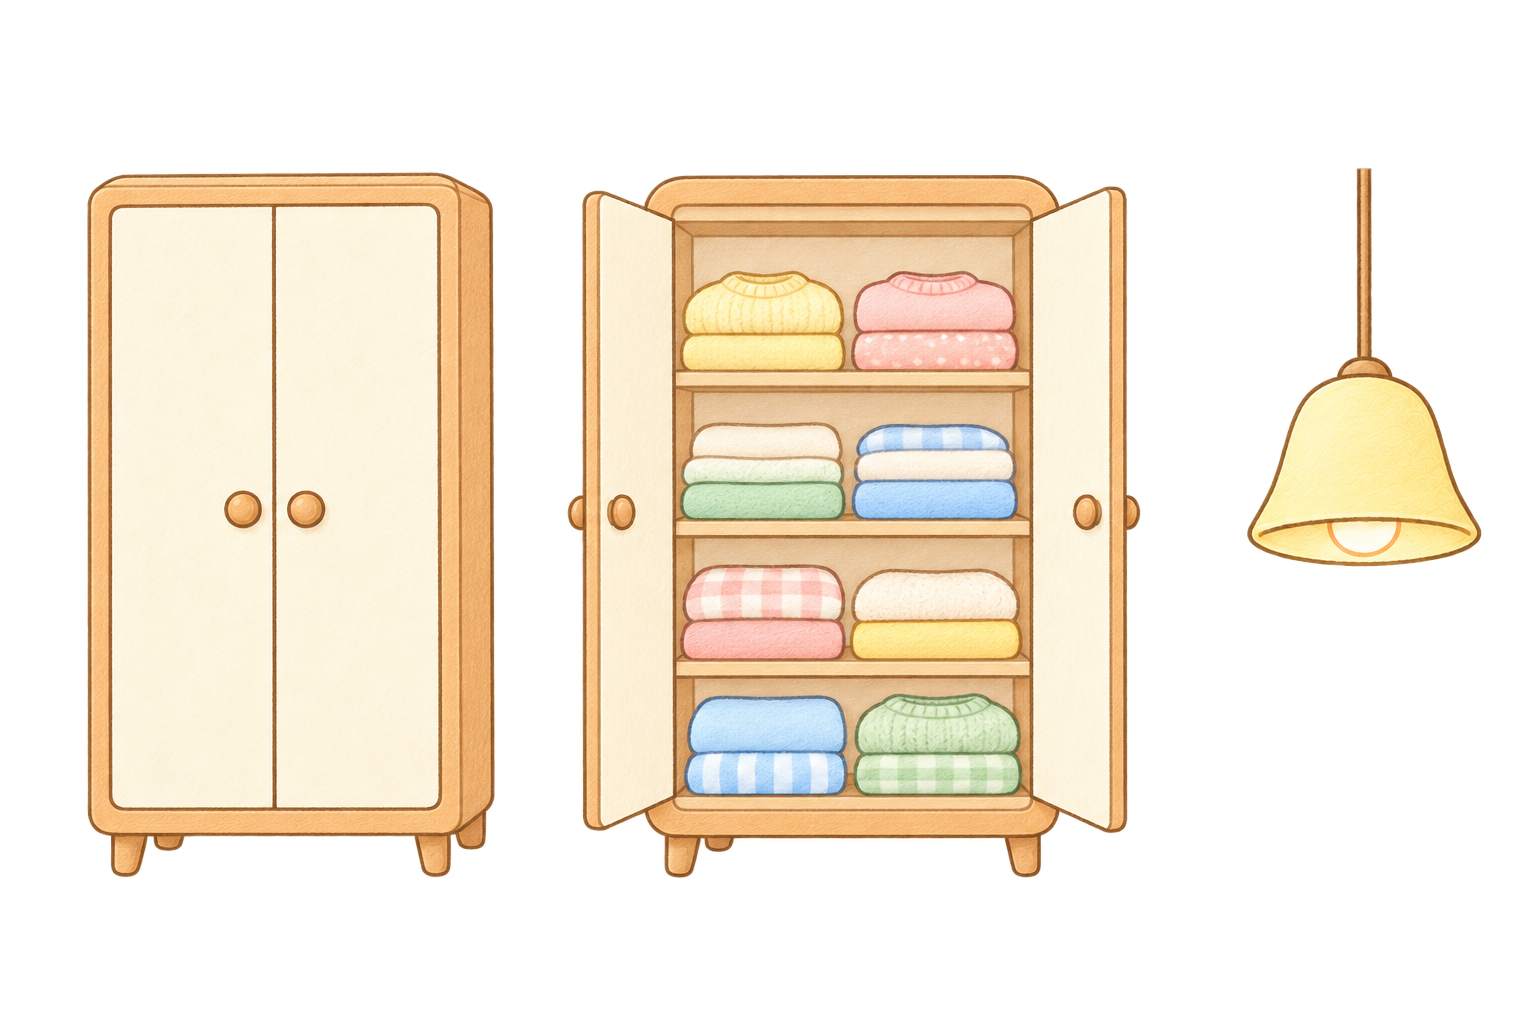
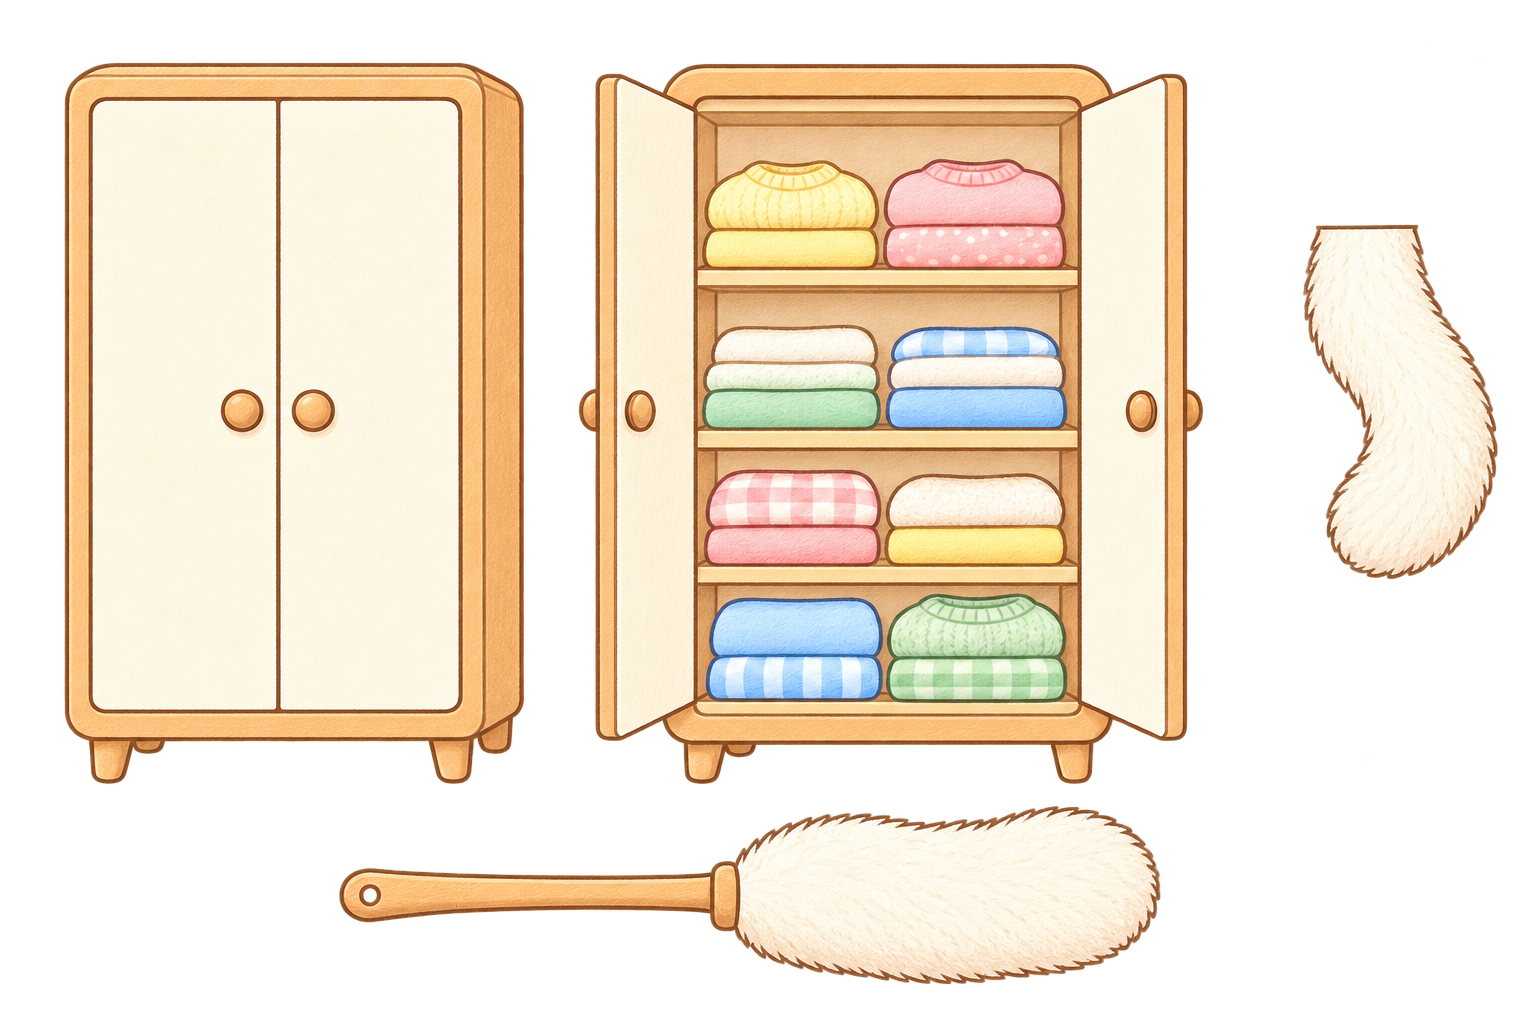
Level 2: thay thảm lông dưới gầm giường bằng chổi lông như đuôi mèo, vẽ lại cặp tủ
- Gầm giường thò ra túm lông trắng ve vẩy như đuôi mèo; chạm thì kéo ra cây chổi lông
- Vẽ lại tủ đóng/mở chung một tờ: cùng khung, nóc, chân, góc nghiêng; tủ mở lộ ngăn quần áo gấp
- Bỏ l2_fur_rug, l2_fur_rug_peek (cất ở art/out/_refs/l2_fur_old)

diff --git a/game/src/level2.js b/game/src/level2.js
@@ -27,7 +27,6 @@ const SIZE_K = {
   l2_shoebox_ears: 1.14, l2_shoebox_open: 1.14,
   l2_plush_cat: 0.75, l2_plush_cat_fallen: 0.75,
   l2_bed_blanket_flat: 1.11, l2_bed_blanket_flipped: 1.11,
-  l2_fur_rug_peek: 1.6, l2_fur_rug: 1.2,
   l2_chair: 0.95,
   l2_slippers_cat_idle: 1.19, l2_slippers_cat_after: 1.19,
   l2_sock_basket_full: 1.39, l2_sock_basket_2: 1.39, l2_sock_basket_3: 1.39, l2_sock_basket_reveal: 1.39,
@@ -75,13 +74,16 @@ const FB = {
   l2_shoebox: [180, 90, 'đáy', (g, w, h) => { g.fillStyle(0xe7a98f).lineStyle(4, BROWN).fillRect(4, 14, w - 8, h - 18).strokeRect(4, 14, w - 8, h - 18); g.fillStyle(0xf1c0a8).fillRect(0, 4, w, 18).strokeRect(0, 4, w, 18); }],
   l2_bed_blanket_flat: [520, 300, 'đáy', (g, w, h) => bed(g, w, h, false)],
   l2_bed_blanket_flipped: [520, 300, 'đáy', (g, w, h) => bed(g, w, h, true)],
-  l2_fur_rug_peek: [120, 44, 'đáy', (g, w, h) => {
-    g.fillStyle(WHITE).lineStyle(3, BROWN).fillRect(4, 0, w - 8, h * 0.55);
-    for (let i = 0; i < 4; i++) { g.fillCircle(18 + i * 28, h * 0.62, 14); g.strokeCircle(18 + i * 28, h * 0.62, 14); }
+  // G2-9: túm lông trắng cong như đuôi mèo thò ra dưới gầm giường (gốc ở mép trên, khuất sau giường).
+  l2_duster_peek: [150, 110, 'đỉnh', (g, w, h) => {
+    g.fillStyle(WHITE).lineStyle(4, BROWN);
+    g.fillEllipse(w * 0.4, h * 0.3, w * 0.36, h * 0.6).strokeEllipse(w * 0.4, h * 0.3, w * 0.36, h * 0.6);
+    g.fillEllipse(w * 0.62, h * 0.72, w * 0.5, h * 0.4).strokeEllipse(w * 0.62, h * 0.72, w * 0.5, h * 0.4);
   }],
-  l2_fur_rug: [210, 80, 'đáy', (g, w, h) => {
-    blob(g, w / 2, h * 0.55, w * 0.47, h * 0.4);
-    for (const px of [0.2, 0.4, 0.6, 0.8]) g.fillStyle(WHITE).lineStyle(3, BROWN).fillCircle(w * px, h * 0.82, 13).strokeCircle(w * px, h * 0.82, 13);
+  // Cả cây chổi lông quét bụi nằm ngang trên sàn: cán gỗ, đầu lông trắng bông.
+  l2_duster: [300, 90, 'đáy', (g, w, h) => {
+    g.fillStyle(WOOD).lineStyle(4, BROWN).fillRect(8, h * 0.55, w * 0.5, 14).strokeRect(8, h * 0.55, w * 0.5, 14);
+    g.fillStyle(WHITE).fillEllipse(w * 0.74, h * 0.55, w * 0.5, h * 0.85).strokeEllipse(w * 0.74, h * 0.55, w * 0.5, h * 0.85);
   }],
   l2_shoebox_ears: [180, 120, 'đáy', (g, w, h) => shoebox(g, w, h, 'ears')],
   l2_shoebox_open: [180, 140, 'đáy', (g, w, h) => shoebox(g, w, h, 'open')],
@@ -297,11 +299,12 @@ export class Level2 extends BaseLevel {
     this.attachTo(this.shoebox, this.wardrobe); // O2-18: hộp nằm trên nóc tủ nhún theo tủ
     this.pinkBeanie = this.img('l2_beanie_pink_cat', this.shoebox.x, this.shoebox.y - 40, D.box).setVisible(false);
     this.bed = this.img('l2_bed_blanket_flat', ...P('l2_bed_blanket_flat'), D.cushion);
-    // G2-7: góc tấm thảm lông trắng thò ra dưới gầm giường như bàn chân mèo (lớp sau giường).
+    // G2-9: chổi lông thò ra dưới gầm giường như đuôi mèo (gốc khuất sau khung giường), ve vẩy nhẹ.
     const bdb0 = this.bed.getBounds();
-    const pk = this.pos('l2_fur_rug_peek') || [bdb0.left + bdb0.width * 0.5, bdb0.bottom - 10];
-    this.furPeek = this.img('l2_fur_rug_peek', ...pk, D.cushion + 1); // O2-5: trên lớp bóng gầm giường
-    this.furRug = this.img('l2_fur_rug', pk[0], pk[1], D.cushion - 1).setVisible(false);
+    const pk = this.pos('l2_duster_peek') || [bdb0.left + bdb0.width * 0.35, bdb0.bottom - 45];
+    this.dusterPeek = this.img('l2_duster_peek', ...pk, D.cushion - 1);
+    this.duster = this.img('l2_duster', pk[0], pk[1] + 40, D.cushion - 1).setVisible(false);
+    this.wagDuster();
     this.chair = this.img('l2_chair', ...P('l2_chair'), D.box);
     const chb = this.chair.getBounds();
     this.sweater = this.img('l2_sweater_rolled', ...(this.pos('l2_sweater_rolled') || [chb.left + chb.width * 0.48, chb.top + chb.height * 0.6]), D.box + 1); // O2-7: giữa mặt ghế
@@ -326,7 +329,7 @@ export class Level2 extends BaseLevel {
     this.zone('shoebox', this.shoebox.getBounds(), D.zone + 3);
     const bdb = this.bed.getBounds();
     this.zone('bed', new Phaser.Geom.Rectangle(bdb.x, bdb.y, bdb.width, bdb.height * 0.75), D.zone + 1);
-    this.zone('underbed', new Phaser.Geom.Rectangle(bdb.x + 60, bdb.bottom - 70, bdb.width - 120, 70), D.zone + 2);
+    this.zone('underbed', Phaser.Geom.Rectangle.Union(new Phaser.Geom.Rectangle(bdb.x + 60, bdb.bottom - 70, bdb.width - 120, 70), this.dusterPeek.getBounds()), D.zone + 2);
     this.zone('sweater', this.sweater.getBounds(), D.zone + 3);
     this.zone('slippersCat', this.slippersCat.getBounds(), D.zone + 3);
     this.zone('basket', this.basket.getBounds(), D.zone + 5);
@@ -514,17 +517,32 @@ export class Level2 extends BaseLevel {
     this.react('player_shrug', this.bed.x); // G2-7: lật ra không có gì
   }
 
-  // G2-7: chạm gầm giường: kéo ra tấm thảm lông trắng (góc thảm thò ra như bàn chân mèo).
+  // G2-9: túm lông ve vẩy như đuôi mèo: xoay ±8° quanh gốc, nhịp chậm; thỉnh thoảng giật nhẹ.
+  wagDuster() {
+    const s = this.dusterPeek;
+    s.angle = -8;
+    this.tweens.add({ targets: s, angle: 8, duration: 1300, yoyo: true, repeat: -1, ease: 'Sine.inOut' });
+    this.dusterTwitch = this.time.addEvent({ delay: 3600, loop: true, callback: () => {
+      if (!s.visible || Math.random() < 0.35) return;
+      const k = this.tweens.add({ targets: s, scaleY: s.baseY * 1.08, duration: 90, yoyo: true, repeat: 1 });
+      return k;
+    } });
+  }
+
+  // G2-9: chạm gầm giường: phần lông thò ra biến mất, cây chổi lông trượt ra nằm trên sàn cạnh giường; nhân vật gãi đầu.
   underBedTap() {
     this.underTaps++;
     if (this.underTaps === 1) {
       this.sfx('sfx_cloth');
-      const r = this.furRug, [tx, ty] = this.P('l2_fur_rug');
-      this.furPeek.setVisible(false);
+      const r = this.duster, [tx, ty] = this.P('l2_duster');
+      this.tweens.killTweensOf(this.dusterPeek);
+      if (this.dusterTwitch) this.dusterTwitch.remove();
+      this.dusterPeek.setVisible(false);
       r.setVisible(true);
       this.tweens.add({ targets: r, x: tx, y: ty, duration: 380, ease: 'Quad.out', onComplete: () => {
         r.setDepth(D.cushion + 1);
         this.dust(r.x, r.y);
+        this.zoneTo('underbed', r);
         this.react('player_scratch_head', r.x);
       } });
     } else { this.wiggle(this.bed, 1.5, 2, 200); this.sfx('sfx_tap'); }

diff --git a/game/src/assets.js b/game/src/assets.js
@@ -47,7 +47,7 @@ export const KEYS = {
     ['l2_bg_bedroom', 'level2'],
     ['l2_sock_basket_full', 'level2'], ['l2_sock_basket_2', 'level2'], ['l2_sock_basket_3', 'level2'], ['l2_sock_basket_reveal', 'level2'],
     ['l2_sock_striped', 'level2'], ['l2_sock_dotted', 'level2'], ['l2_sock_white_big', 'level2'], ['l2_sock_star', 'level2'], ['l2_sock_baby', 'level2'], ['l2_sock_long', 'level2'],
-    ['l2_bed_blanket_flat', 'level2'], ['l2_bed_blanket_flipped', 'level2'], ['l2_fur_rug', 'level2'], ['l2_fur_rug_peek', 'level2'],
+    ['l2_bed_blanket_flat', 'level2'], ['l2_bed_blanket_flipped', 'level2'], ['l2_duster_peek', 'level2'], ['l2_duster', 'level2'],
     ['l2_wardrobe_closed', 'level2'], ['l2_wardrobe_open', 'level2'], ['l2_shoebox_ears', 'level2'], ['l2_shoebox_open', 'level2'], ['l2_beanie_pink_cat', 'level2'], ['l2_curtain_tie', 'level2'],
     ['l2_curtain_closed', 'level2'], ['l2_curtain_open', 'level2'],
     ['l2_plush_cat', 'level2'], ['l2_plush_cat_fallen', 'level2'],

diff --git a/levels/states-01-10.md b/levels/states-01-10.md
@@ -169,7 +169,7 @@ Toàn bộ đã có trong `art/design-art-level1.md` (vẽ theo tờ, cắt bằ
 | 3 | Tủ quần áo | `l2_wardrobe_closed`, `l2_wardrobe_open` (quần áo **gấp** ngăn nắp từng ngăn, không treo; G2-7) | closed | Chạm | — | closed ↔ open | `swap` | `sfx_hinge` |
 | 3a | Hộp giày 🎭 (G2-7) | `l2_shoebox_ears` (mới: nắp hé, hai tai mèo nhọn thò lên), `l2_shoebox_open` (mới: nắp bật), `l2_beanie_pink_cat` (mới: mũ len tai mèo hồng nhạt) | ears | Chạm | — | ears → open (giữ) | `swap`; mũ hồng nảy lên 150px rồi rơi lại vào hộp; chạm lại: `hop` nhỏ | `l1_sfx_box_flaps` |
 | 4 | Chăn 🎭 | `l2_bed_blanket_flat` (cục phồng rõ), `l2_bed_blanket_flipped` (không có gì: gối trắng, nệm trống) | flat | Vuốt | — | flat → flipped (giữ) | `swap`; `player_shrug` trồi lên | `sfx_cloth` |
-| 5 | Gầm giường 🎭 (G2-7) | vùng chạm dải dưới ảnh giường; `l2_fur_rug_peek` (góc thảm thò ra dưới mép giường như bàn chân mèo, lớp sau giường) → `l2_fur_rug` (cả tấm thảm lông trắng, 4 túm lông như đệm chân) | peek | Chạm lần đầu | — | peek → thảm trượt ra sàn (giữ) | ẩn `_peek`, cả tấm thảm trượt ra chỗ `l2_fur_rug` trong bảng vị trí + `puff`; `player_scratch_head` | `l2_sfx_slide` |
+| 5 | Gầm giường 🎭 (G2-9) | vùng chạm dải dưới ảnh giường + túm lông; `l2_duster_peek` (túm lông thò ra, gốc khuất sau khung giường) → `l2_duster` (cả cây chổi lông nằm ngang) | peek: ve vẩy như đuôi mèo, xoay ±8° quanh gốc, nhịp chậm 1,3 giây, thỉnh thoảng giật nhẹ | Chạm lần đầu | — | peek → chổi nằm trên sàn (giữ) | ẩn `_peek`, chổi trượt ra chỗ `l2_duster` trong bảng vị trí + `puff`; `player_scratch_head` | `l2_sfx_slide` |
 | 5 | Gầm giường | — | — | Chạm lần sau | — | — | `wiggle` giường | `sfx_tap` |
 | 6 | Chao đèn | `l2_ceiling_lamp` (mới, tách khỏi nền) | — | Chạm | — | — | `swing`; bóng đổ lắc theo | `l2_sfx_creak` |
 | 7 | **Giỏ tất** | `l2_sock_basket_full` → `_2` → `_3` → `_reveal`; `_one_eye`, `_yawn` (Sữa vẽ liền trong giỏ, cùng khung) | full | Chạm (6 lần, G2-8) | cách lần trước ≥ 0,4 giây | full → 2 (lần 2) → 3 (lần 4) → reveal (lần 6) | Mỗi lần một chiếc tất bay (bảng dưới); lần 1, 3, 5 giỏ `hop` nhỏ, lần 2, 4, 6 `swap`. Giỏ tĩnh, không `breathe` (G2-8) | `l2_sfx_sock_whoosh` |

diff --git a/levels/levels-01-10.md b/levels/levels-01-10.md
@@ -175,7 +175,7 @@ Trước khi lộ hộp pate **không có gợi ý tự động** (G10).
 | 3 | Tủ quần áo | Phải | ✨ | Chạm | Cánh tủ mở: chỉ thấy **quần áo gấp ngăn nắp** từng ngăn; chạm lần nữa đóng lại | Bản lề "kẹt" |
 | 3a | Hộp giày trên nóc tủ: nắp hé, **hai tai mèo** thò lên (G2-7) | Trên phải | 🎭 | Chạm | Hộp bật nắp: hoá ra **mũ len tai mèo màu hồng nhạt**, mũ nảy lên rồi rơi lại vào hộp | "Cộc" |
 | 4 | Chăn trên giường (có một cục phồng rõ) | Dưới trái | 🎭 | Vuốt | Chăn lật ra: **không có gì** (chỉ gối trắng, nệm trống), nhân vật nhún vai | Sột soạt |
-| 5 | Gầm giường: thò ra một **"bàn chân mèo" trắng** (thật ra là góc tấm thảm lông, 4 túm lông như đệm chân; G2-7) | Đáy trái | 🎭 | Chạm | Kéo ra **tấm thảm lông trắng nhỏ**, trượt ra sàn; nhân vật gãi đầu | "Xẹt" |
+| 5 | Gầm giường: thò ra một **túm lông trắng dài, cong như đuôi mèo**, thỉnh thoảng ve vẩy nhẹ (G2-9) | Đáy trái | 🎭 | Chạm | Kéo ra hoá ra là **cây chổi lông quét bụi** (cán gỗ, lông trắng bông), nằm trên sàn cạnh giường; nhân vật gãi đầu | "Xẹt" |
 | 6 | Chao đèn trần | Trên giữa | ✨ | Chạm | Đèn đung đưa, bóng đổ lắc lư | "Kẽo kẹt" |
 | 7 | Giỏ tất | Dưới phải | 🔑 | Chạm ×3 | Mỗi lần một chiếc tất bay ra (xem luồng giải) | "Vèo" mỗi lần |
 | 8 | Mũ len trắng có hai quả bông (như hai tai mèo) trên móc | Trên trái | 🎭 | Chạm | Mũ rơi xuống, nhân vật đội thử lên đầu, hai quả bông ve vẩy như tai mèo | "Bụp" |
